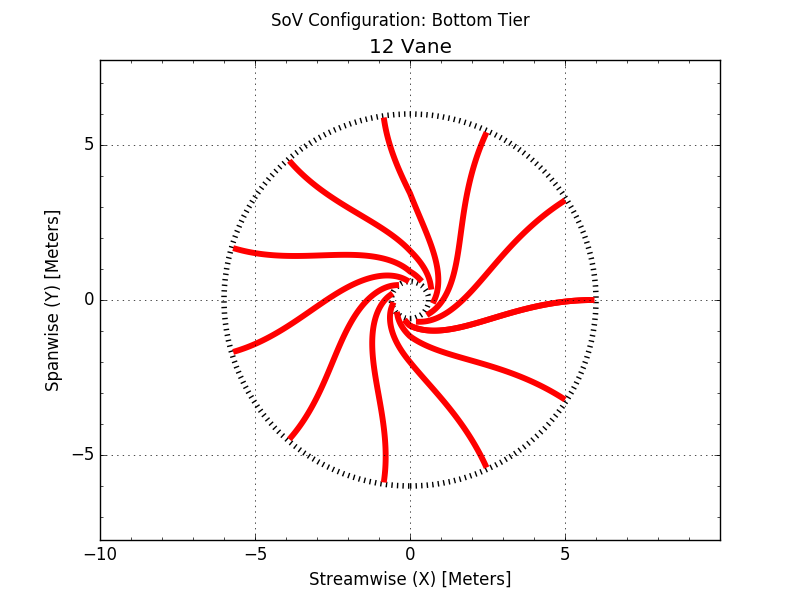
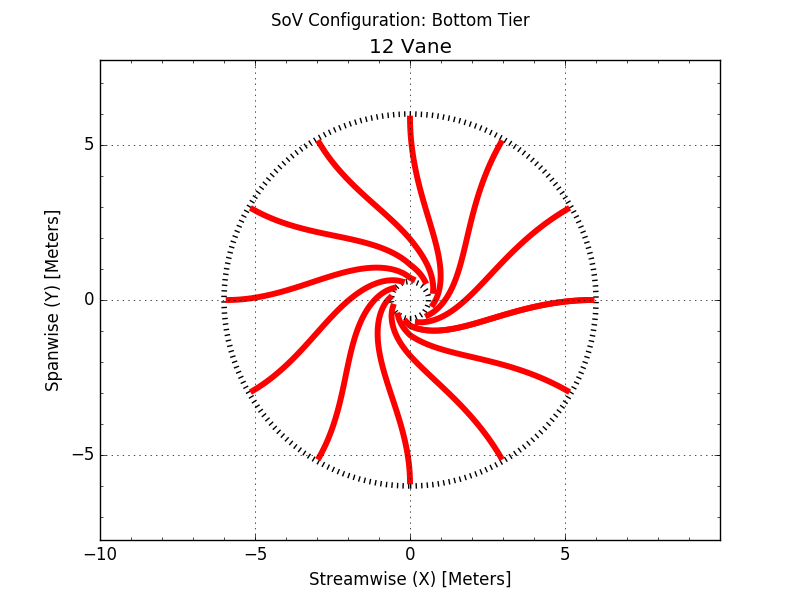
yikes, had a missing vane

diff --git a/disputatio/routines/vanes/bottom.py b/disputatio/routines/vanes/bottom.py
@@ -48,7 +48,7 @@ def arr():
     #
     #rad = 0.4
     rad = radprime-0.1
-    theta = np.linspace(0, 2*np.pi, 12)
+    theta = np.linspace(0, 2*np.pi, 13)
     ic    = np.stack((rad*np.cos(theta),rad*np.sin(theta)),axis=-1)
 
     end = 0.0
